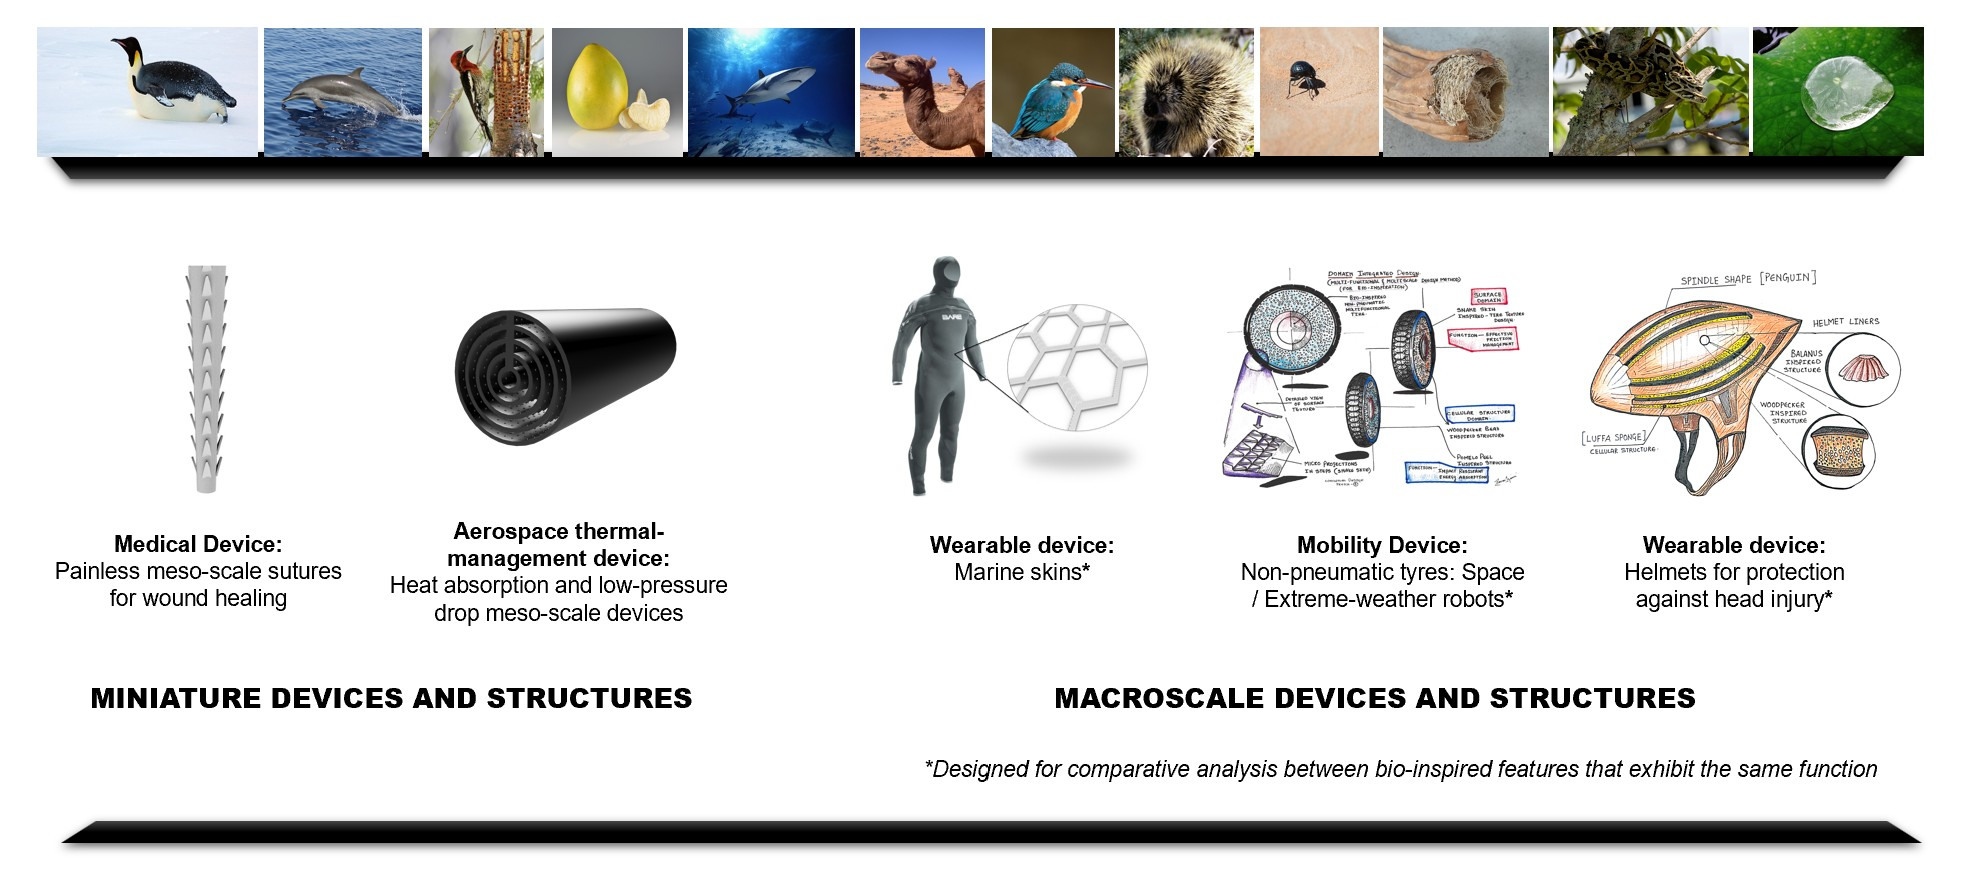
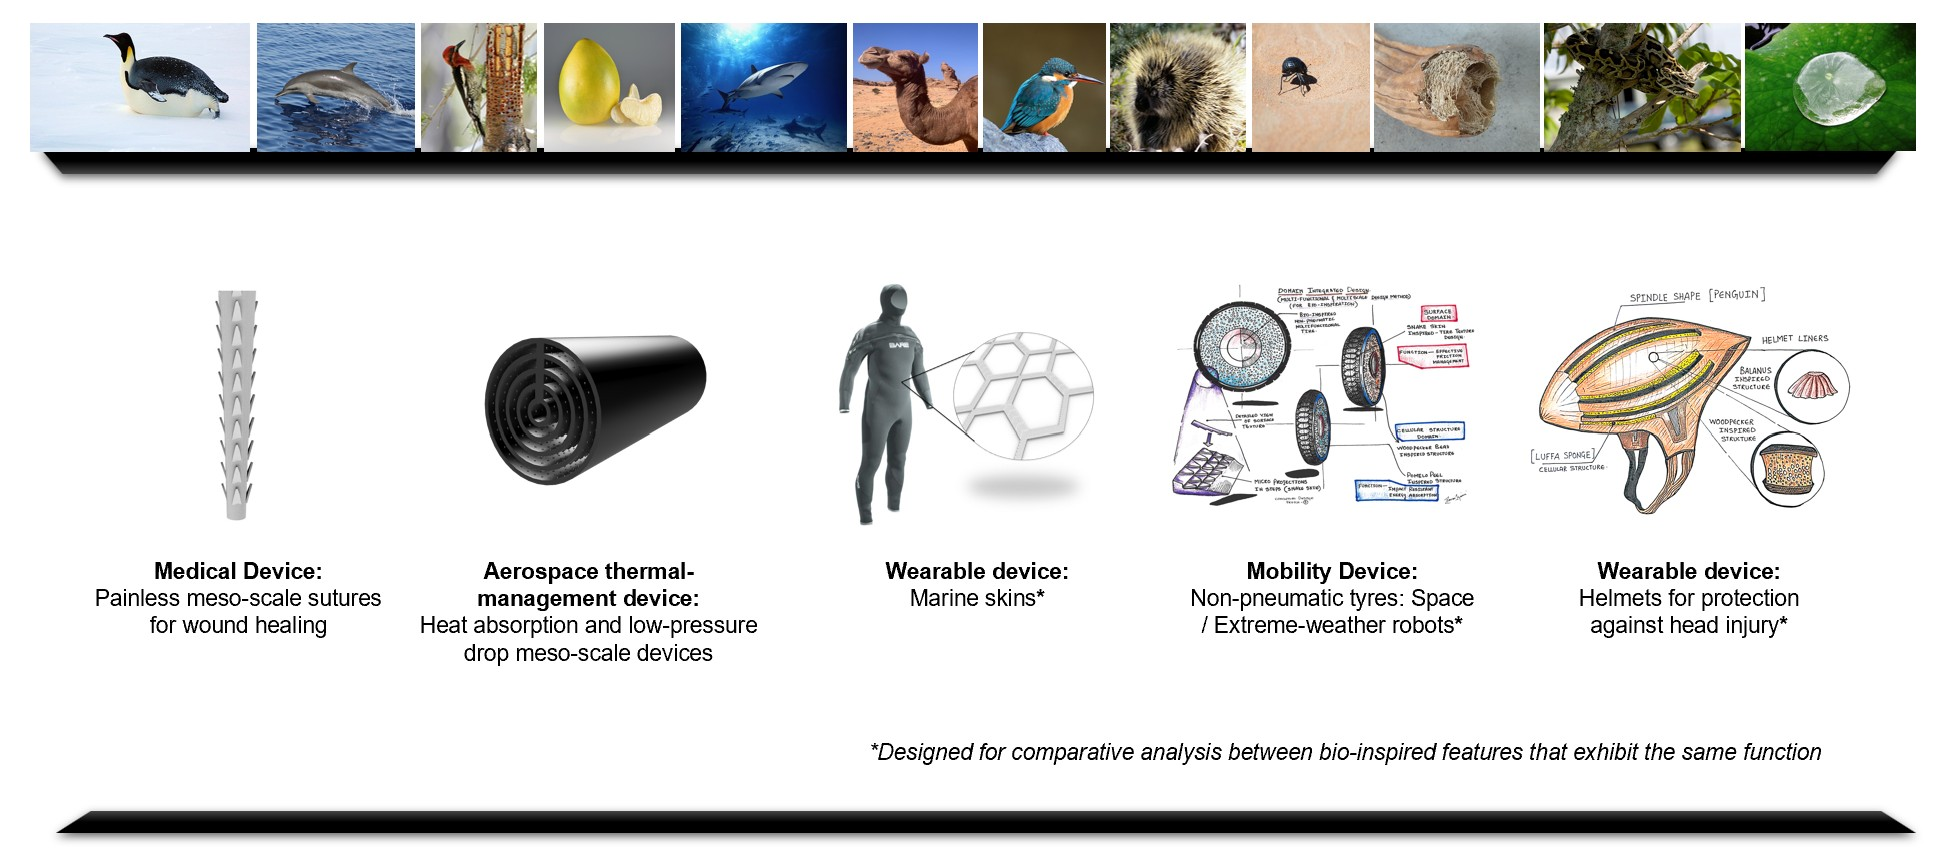
seventy two commit

diff --git a/index.html b/index.html
@@ -64,8 +64,8 @@
                 <div id="header">
                         
                         <div class="row">
-                            <img src="images/design space.jpg" width ="40%" alt="design space">  
-                            <img src="images/early-stage1.jpg" width ="50%" alt="Applications Overview2">
+                            <img src="images/design space.jpg" class="img-center" width="40%" alt="design space">  
+                            <img src="images/early-stage1.jpg" class="img-center" width ="50%" alt="Applications Overview2">
                             <!--make sure that the total width of pic 1 and pic 2 is 100% and should not cross 100%-->
                         </div>
                 </div>
@@ -88,7 +88,7 @@
         </p>
 
             
-            <img src="images/intro.jpg" class="img-center" width="85%" alt="Applications Overview1">
+            <img src="images/intro.jpg" class="img-center" width="80%" alt="Applications Overview1">
         
     
         <p>
